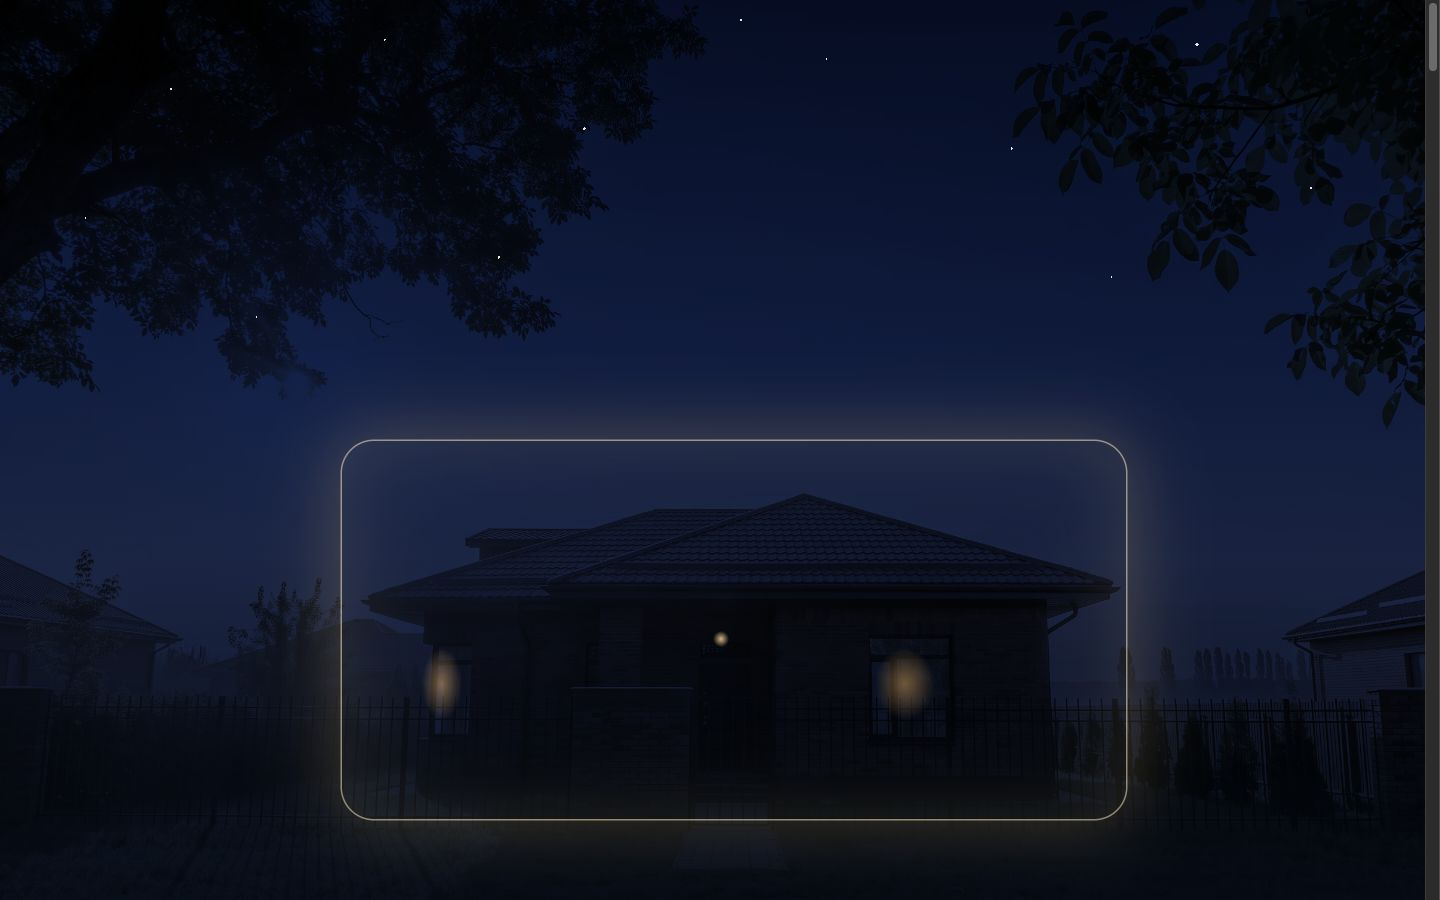
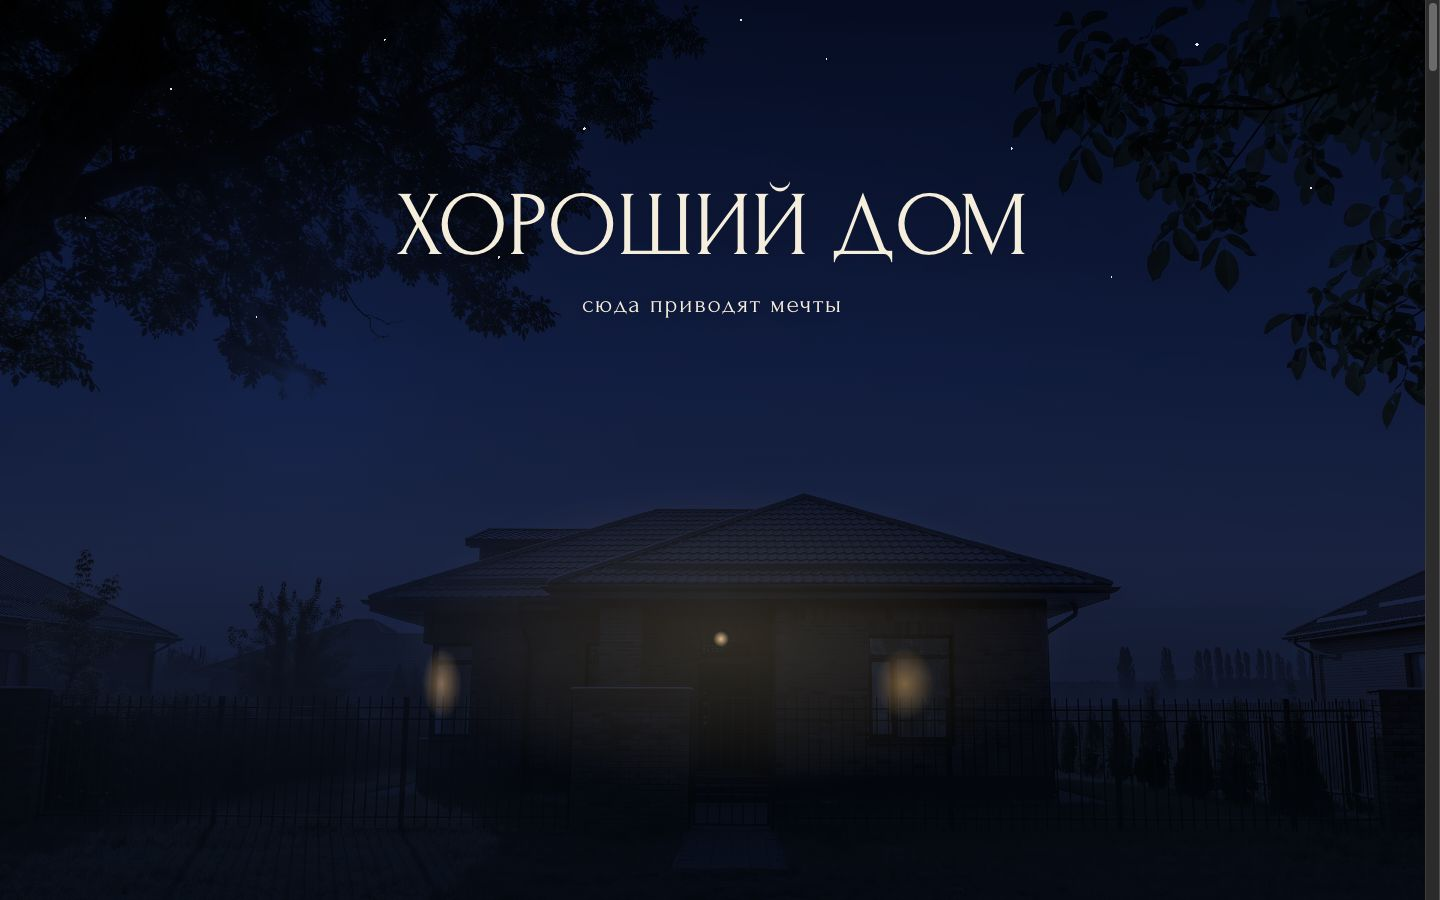
Первый экран: вернул слоган «Хороший дом — сюда приводят мечты», подсветка дома — мягкое световое пятно без рамки

diff --git a/src/app/(frontend)/v2.css b/src/app/(frontend)/v2.css
@@ -860,32 +860,34 @@ html.no-motion .v2-steam { display: none; }/* one line from a book over the morn
   100% { opacity: 0; transform: rotate(-24deg) translateX(-34cqw) scaleX(1); }
 }
 .hn__scrim { position: absolute; inset: auto 0 0; height: 34%; z-index: 3; background: linear-gradient(transparent, rgba(6, 14, 26, .55)); pointer-events: none; }
-/* 10.11, Игорь: no captions or buttons over the cinema. The house itself is the entry — a warm glow breathes over it
-   after the photo loads; the «Выбрать дом» label shows only on hover/focus, a click zooms in and opens the catalog. */
-.hn__house { position: absolute; z-index: 4; left: 24%; top: 49%; width: 55%; height: 42%; display: block; border-radius: 32px; }
-.hn__house > i { position: absolute; inset: 0; border-radius: inherit; pointer-events: none; opacity: 0;
-  box-shadow: 0 0 0 1.5px rgba(255, 238, 200, .5), 0 0 70px 12px rgba(255, 214, 140, .22), inset 0 0 90px rgba(255, 226, 160, .14);
-  animation: hn-glow-in 1.2s 1.1s both, hn-glow 3.6s 2.3s ease-in-out infinite; }
-@keyframes hn-glow-in { to { opacity: 1; } }
-@keyframes hn-glow {
-  0%, 100% { box-shadow: 0 0 0 1.5px rgba(255, 238, 200, .38), 0 0 50px 6px rgba(255, 214, 140, .14), inset 0 0 70px rgba(255, 226, 160, .1); }
-  50% { box-shadow: 0 0 0 1.5px rgba(255, 238, 200, .75), 0 0 90px 18px rgba(255, 214, 140, .3), inset 0 0 110px rgba(255, 226, 160, .2); }
-}
+/* 10.11, Игорь: over the cinema stay only the brand and the slogan — no facts, lead text or buttons. */
+.hn__copy { position: absolute; z-index: 4; left: 0; right: 0; top: 20cqh; display: grid; justify-items: center; gap: 10px; padding: 0 var(--gutter); text-align: center; color: #f6eedd; transition: color .6s; pointer-events: none; }
+.hn__title { font-family: var(--font-brand); font-weight: 400; font-size: clamp(44px, min(6.4cqw, 13cqh), 110px); line-height: .92; letter-spacing: .04em; text-transform: uppercase; text-shadow: 0 2px 26px rgba(8, 16, 40, .65); transition: text-shadow .6s; }
+.hn__slogan { font-family: var(--font-brand); font-size: clamp(18px, 1.8cqw, 26px); letter-spacing: .06em; text-shadow: 0 2px 20px rgba(8, 16, 40, .65); transition: text-shadow .6s; }
+.hn.is-day .hn__copy { color: #14301f; }
+.hn.is-day :is(.hn__title, .hn__slogan) { text-shadow: 0 1px 18px rgba(255, 255, 255, .6); }
+/* the house is the entry: a soft warm halo breathes over it — light, not a frame; the label shows on hover/focus,
+   a click zooms in and opens the catalog */
+.hn__house { position: absolute; z-index: 4; left: 24%; top: 49%; width: 55%; height: 42%; display: block; }
+.hn__house > i { position: absolute; inset: -14%; pointer-events: none; opacity: 0; filter: blur(8px);
+  background: radial-gradient(ellipse 50% 46% at 50% 52%, rgba(255, 226, 160, .34) 0%, rgba(255, 214, 140, .15) 42%, transparent 68%);
+  animation: hn-glow-in 1.4s 1.1s both, hn-glow 4s 2.5s ease-in-out infinite; }
+@keyframes hn-glow-in { to { opacity: .85; } }
+@keyframes hn-glow { 0%, 100% { opacity: .5; } 50% { opacity: 1; } }
 .hn__house > span { position: absolute; left: 50%; bottom: 22px; translate: -50% 0; white-space: nowrap; opacity: 0; transition: opacity .25s;
   padding: 10px 18px; border-radius: 999px; font-size: 14px; font-weight: 600; color: #fff;
   background: rgba(10, 22, 16, .55); border: 1px solid rgba(255, 255, 255, .25); backdrop-filter: blur(10px); -webkit-backdrop-filter: blur(10px); }
 .hn__house:hover > span, .hn__house:focus-visible > span { opacity: 1; }
-.hn__house:hover { background: rgba(255, 232, 180, .05); }
-.hn__house:focus-visible { outline: 2px solid rgba(255, 238, 200, .9); outline-offset: 4px; }
+.hn__house:focus-visible { outline: 2px solid rgba(255, 238, 200, .9); outline-offset: 4px; border-radius: 28px; }
 /* the click: a slow push into the house and a warm fade, then the catalog opens (HeroNight.enterCatalog) */
 .hn__flash { position: absolute; inset: 0; z-index: 6; background: #fbf3e2; opacity: 0; pointer-events: none; transition: opacity .5s ease; }
 .hn__day img, .hn__night img { transition: transform .55s cubic-bezier(.3, .6, .3, 1); }
 .hn.is-leaving .hn__day img, .hn.is-leaving .hn__night img { transform: scale(1.16); }
 .hn.is-leaving .hn__flash { opacity: 1; }
 .hn.is-leaving .hn__house { pointer-events: none; }
-.sr-only { position: absolute; width: 1px; height: 1px; padding: 0; margin: -1px; overflow: hidden; clip: rect(0 0 0 0); white-space: nowrap; border: 0; }
 @media (max-width: 959px) {
-  .hn__house { left: 3%; top: 50%; width: 94%; height: 40%; border-radius: 24px; }
+  .hn__copy { top: 14cqh; gap: 6px; }
+  .hn__house { left: 3%; top: 50%; width: 94%; height: 40%; }
   .hn__house > span { opacity: 1; bottom: 14px; font-size: 13px; padding: 8px 14px; }
   .hn__windows { display: none; }
   .hn__star { width: 34cqw; top: 6%; right: 8%; }

diff --git a/src/components/heroes/HeroNight.tsx b/src/components/heroes/HeroNight.tsx
@@ -58,7 +58,6 @@ export function HeroNight({ night, nightPhone }: { night?: string; nightPhone?: 
 
   return (
     <section ref={ref} className="hn">
-      <h1 className="sr-only">Хороший дом — готовые кирпичные дома с участком под Краснодаром</h1>
       <div className="hn__pane">
         <div className="hn__day">
           <Pic src="/design/hero-morning.webp" phone="/design/hero-morning-phone.webp" alt="Кирпичный дом «Тип 5» утром в дымке" priority />
@@ -70,6 +69,12 @@ export function HeroNight({ night, nightPhone }: { night?: string; nightPhone?: 
           <i className="hn__star" />
         </div>
         <i className="hn__scrim" aria-hidden />
+
+        {/* only the brand and its slogan stay over the cinema; the facts and buttons are gone (10.11) */}
+        <div className="hn__copy">
+          <h1 className="hn__title">Хороший дом</h1>
+          <p className="hn__slogan">сюда приводят мечты</p>
+        </div>
 
         {/* the house is the «Выбрать дом» button: a breathing glow invites the click, a hover shows the label */}
         <a className="hn__house" href={mainHref('/catalog')} aria-label="Выбрать дом — перейти в каталог" onClick={enterCatalog}>

diff --git a/СЕЙЧАС.md b/СЕЙЧАС.md
@@ -106,6 +106,7 @@
 ## Последние изменения
 
 <!-- auto:start -->
+- 10.11 · Игорь · Первый экран: вернул слоган «Хороший дом — сюда приводят мечты», подсветка дома — мягкое световое пятно без рамки _(v2.css, HeroNight.tsx, cinema_hover_1440.jpg, cinema_hover_390.jpg и ещё 4)_
 - 10.11 · Игорь · Первый экран — чистое кино: дом светится и кликабелен, шапка и плавающие кнопки со второго экрана _(v2.css, HeroNight.tsx, cinemashots.py, cinema_afterclick_1440.jpg и ещё 7)_
 - 10.11 · Игорь · Dev-сервер слушает все адреса: localhost теперь доступен и по IPv6 _(package.json)_
 - 10.11 · Игорь · Запуск dev-сервера: порт и адрес пробрасываются через PORT/HOST, дефолт 3100 вместо занятого 3000 _(package.json)_
@@ -135,5 +136,4 @@
 - 08.11 · Илья · Задание Игорю: разбор видео-референса (3D-экран застройщика Upside) — время суток «Утро · День · Вечер · Ночь» на генплане, шаги A–D по 3D _(ЗАДАНИЕ.html, ЗАДАНИЕ.md)_
 - 08.11 · Илья · Задание Игорю, 08.11, версия 2: видео и 3D одной задачей, экраны и вся идея — оценка каркаса, письма дизайнерам Богдану и Никитосу _(ЗАДАНИЕ.html, ЗАДАНИЕ.md)_
 - 08.11 · Илья · Задание Игорю на 08.11: видение сайта по каркасу «ночь → рассвет → день», ландшафт 3D в двух вариантах и генплан на телефоне _(ЗАДАНИЕ.md, каркас-главной.md, ночь-рассвет.html, 01-регион-ПК.png и ещё 3)_
-- 05.11 · Игорь · 3D-генплан: статус участка читается с орбиты — газон проданных сухой жёлто-бежевый, бронь прижелтённая, бордюры крупнее _(Genplan3D.tsx)_
 <!-- auto:end -->
